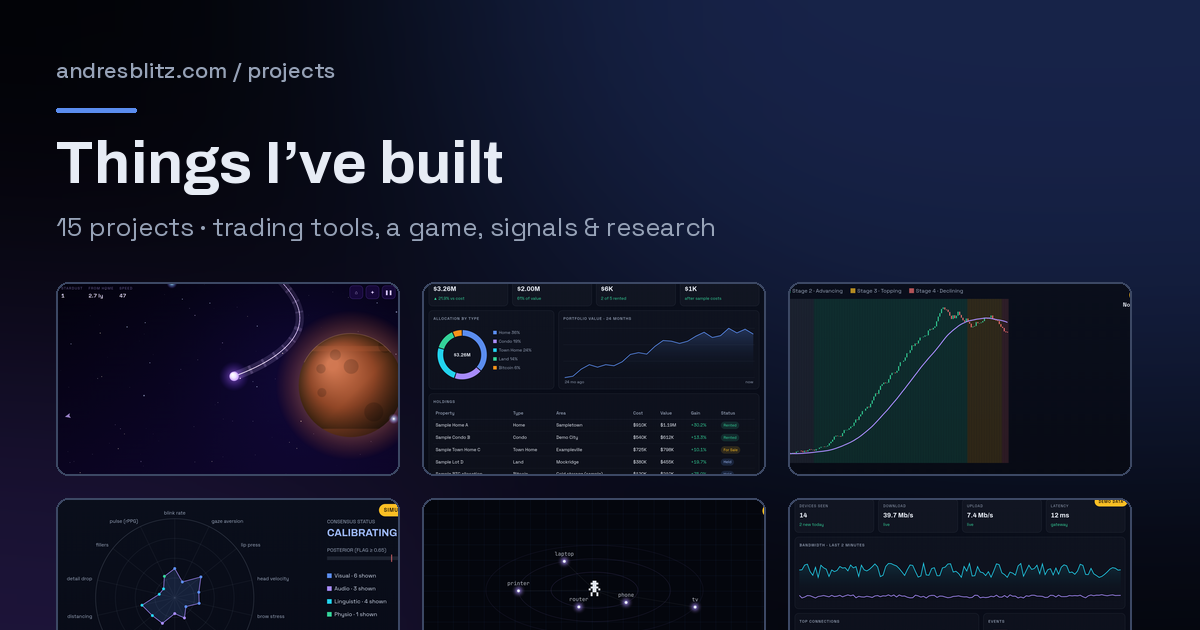
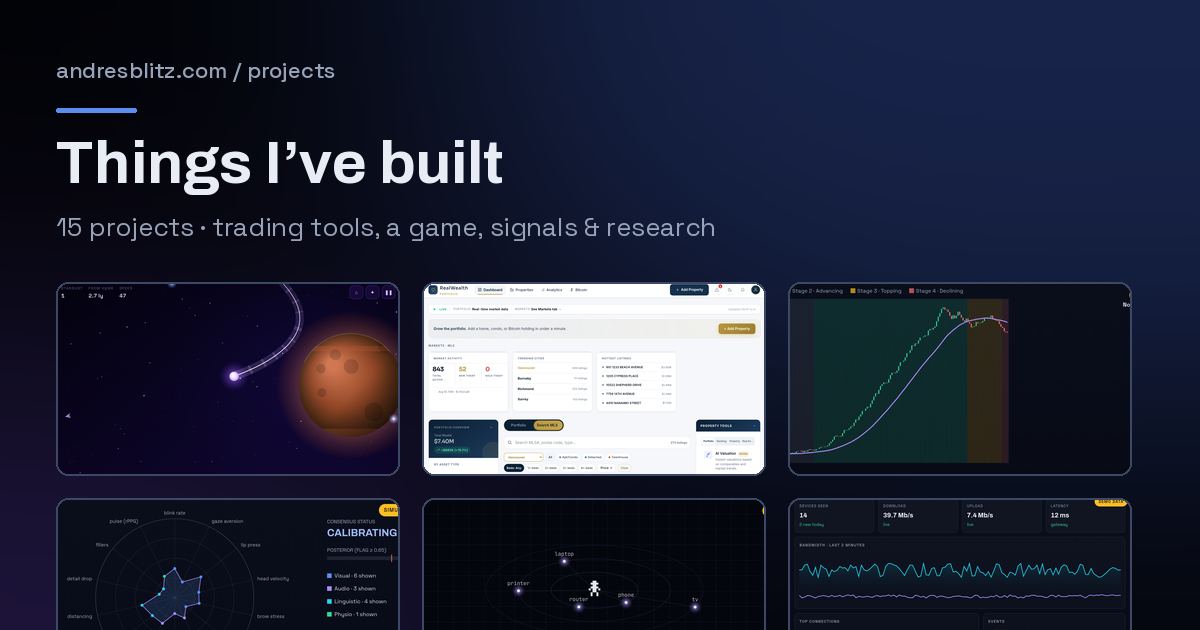
RealWealth: embed the live app instead of the mock demo
- Replace the mock dashboard with a lazy-loaded, sandboxed iframe of realwealth-portfolio.vercel.app
  plus an 'Open full app' link; chips and copy now say Live app, source stays private
- Card/share image is now a real screenshot of the live app
- JSON-LD: WebApplication with ViewAction; homepage ItemList and /projects/ card updated
- Correct datePublished on project pages to the actual publish time (20:40 PT)

Changed region(s): [[0.3392, 0.4524, 0.6475, 0.754]]

diff --git a/projects/realwealth-portfolio/index.html b/projects/realwealth-portfolio/index.html
@@ -3,8 +3,8 @@
 <head>
 <meta charset="UTF-8" />
 <meta name="viewport" content="width=device-width, initial-scale=1.0" />
-<title>RealWealth Portfolio — Real Estate Portfolio Dashboard (Next.js + Supabase) | Andrés Blitz</title>
-<meta name="description" content="RealWealth Portfolio is a private real estate portfolio manager by Andrés Blitz: properties, mortgages, rent, expenses, market data and a Bitcoin sleeve in one Next.js dashboard. Demo uses sample data." />
+<title>RealWealth Portfolio — Live Real Estate Portfolio Dashboard (Next.js + Supabase) | Andrés Blitz</title>
+<meta name="description" content="RealWealth Portfolio is the real estate portfolio manager Andrés Blitz uses for his own holdings: properties, mortgages, market data, MLS® listings and a Bitcoin sleeve in one Next.js dashboard. The live app is embedded on this page." />
 <meta name="author" content="Andrés Blitz" />
 <meta name="robots" content="index, follow, max-image-preview:large, max-snippet:-1" />
 <meta name="theme-color" content="#05070f" />
@@ -21,21 +21,21 @@
 <meta property="og:site_name" content="Andrés Blitz" />
 <meta property="og:locale" content="en_CA" />
 <meta property="og:url" content="https://andresblitz.com/projects/realwealth-portfolio/" />
-<meta property="og:title" content="RealWealth Portfolio — Real Estate Portfolio Dashboard (Next.js + Supabase) | Andrés Blitz" />
-<meta property="og:description" content="RealWealth Portfolio is a private real estate portfolio manager by Andrés Blitz: properties, mortgages, rent, expenses, market data and a Bitcoin sleeve in one Next.js dashboard. Demo uses sample data." />
+<meta property="og:title" content="RealWealth Portfolio — Live Real Estate Portfolio Dashboard (Next.js + Supabase) | Andrés Blitz" />
+<meta property="og:description" content="RealWealth Portfolio is the real estate portfolio manager Andrés Blitz uses for his own holdings: properties, mortgages, market data, MLS® listings and a Bitcoin sleeve in one Next.js dashboard. The live app is embedded on this page." />
 <meta property="og:image" content="https://andresblitz.com/assets/projects/realwealth-portfolio.png" />
 <meta property="og:image:secure_url" content="https://andresblitz.com/assets/projects/realwealth-portfolio.png" />
 <meta property="og:image:type" content="image/png" />
 <meta property="og:image:width" content="1200" />
 <meta property="og:image:height" content="630" />
-<meta property="og:image:alt" content="RealWealth Portfolio — Private real estate portfolio manager" />
+<meta property="og:image:alt" content="RealWealth Portfolio — Live real estate portfolio dashboard" />
 <meta name="twitter:card" content="summary_large_image" />
 <meta name="twitter:site" content="@andresblitz" />
 <meta name="twitter:creator" content="@andresblitz" />
-<meta name="twitter:title" content="RealWealth Portfolio — Real Estate Portfolio Dashboard (Next.js + Supabase) | Andrés Blitz" />
-<meta name="twitter:description" content="RealWealth Portfolio is a private real estate portfolio manager by Andrés Blitz: properties, mortgages, rent, expenses, market data and a Bitcoin sleeve in one Next.js dashboard. Demo uses sample data." />
+<meta name="twitter:title" content="RealWealth Portfolio — Live Real Estate Portfolio Dashboard (Next.js + Supabase) | Andrés Blitz" />
+<meta name="twitter:description" content="RealWealth Portfolio is the real estate portfolio manager Andrés Blitz uses for his own holdings: properties, mortgages, market data, MLS® listings and a Bitcoin sleeve in one Next.js dashboard. The live app is embedded on this page." />
 <meta name="twitter:image" content="https://andresblitz.com/assets/projects/realwealth-portfolio.png" />
-<meta name="twitter:image:alt" content="RealWealth Portfolio — Private real estate portfolio manager" />
+<meta name="twitter:image:alt" content="RealWealth Portfolio — Live real estate portfolio dashboard" />
 <script type="application/ld+json">
 {
   "@context": "https://schema.org",
@@ -44,8 +44,8 @@
       "@type": "WebPage",
       "@id": "https://andresblitz.com/projects/realwealth-portfolio/#webpage",
       "url": "https://andresblitz.com/projects/realwealth-portfolio/",
-      "name": "RealWealth Portfolio — Real Estate Portfolio Dashboard (Next.js + Supabase)",
-      "description": "RealWealth Portfolio is a private real estate portfolio manager by Andrés Blitz: properties, mortgages, rent, expenses, market data and a Bitcoin sleeve in one Next.js dashboard. Demo uses sample data.",
+      "name": "RealWealth Portfolio — Live Real Estate Portfolio Dashboard (Next.js + Supabase)",
+      "description": "RealWealth Portfolio is the real estate portfolio manager Andrés Blitz uses for his own holdings: properties, mortgages, market data, MLS® listings and a Bitcoin sleeve in one Next.js dashboard. The live app is embedded on this page.",
       "isPartOf": {
         "@id": "https://andresblitz.com/#website"
       },
@@ -66,14 +66,14 @@
         "@id": "https://andresblitz.com/projects/realwealth-portfolio/#breadcrumb"
       },
       "inLanguage": "en-CA",
-      "datePublished": "2026-09-26T21:30:00-07:00",
-      "dateModified": "2026-09-26T21:30:00-07:00"
+      "datePublished": "2026-09-26T20:40:00-07:00",
+      "dateModified": "2026-09-26T20:49:00-07:00"
     },
     {
-      "@type": "SoftwareSourceCode",
+      "@type": "WebApplication",
       "@id": "https://andresblitz.com/projects/realwealth-portfolio/#project",
       "name": "RealWealth Portfolio",
-      "description": "RealWealth Portfolio is a private real estate portfolio manager by Andrés Blitz: properties, mortgages, rent, expenses, market data and a Bitcoin sleeve in one Next.js dashboard. Demo uses sample data.",
+      "description": "RealWealth Portfolio is the real estate portfolio manager Andrés Blitz uses for his own holdings: properties, mortgages, market data, MLS® listings and a Bitcoin sleeve in one Next.js dashboard. The live app is embedded on this page.",
       "url": "https://andresblitz.com/projects/realwealth-portfolio/",
       "image": "https://andresblitz.com/assets/projects/realwealth-portfolio.png",
       "author": {
@@ -83,11 +83,18 @@
         "@id": "https://andresblitz.com/#person"
       },
       "dateCreated": "2026-03-20",
-      "dateModified": "2026-09-23",
+      "dateModified": "2026-09-26",
       "inLanguage": "en",
       "keywords": "Next.js 16 (App Router), React 19, TypeScript, Tailwind CSS 4, Supabase / Postgres, Leaflet",
-      "programmingLanguage": "TypeScript",
-      "runtimePlatform": "Next.js 16 (App Router)"
+      "applicationCategory": "FinanceApplication",
+      "operatingSystem": "Any (web browser)",
+      "browserRequirements": "Requires JavaScript",
+      "sameAs": "https://realwealth-portfolio.vercel.app/",
+      "potentialAction": {
+        "@type": "ViewAction",
+        "name": "Open the live app",
+        "target": "https://realwealth-portfolio.vercel.app/"
+      }
     },
     {
       "@type": "BreadcrumbList",
@@ -151,22 +158,25 @@
 <div class="container">
   <nav class="crumbs" aria-label="Breadcrumb"><ol><li><a href="/">Home</a></li><li><a href="/projects/">Projects</a></li><li aria-current="page">RealWealth Portfolio</li></ol></nav>
   <header class="p-head">
-    <p class="kicker">Real estate · Portfolio</p>
+    <p class="kicker">Real estate · Live app</p>
     <h1>RealWealth Portfolio</h1>
-    <p class="lede">A private portfolio manager for real estate: properties, mortgages, rent and expenses in one dashboard — with market data, MLS® listings and a Bitcoin sleeve alongside the bricks.</p>
-    <div class="tags"><span class="tag private"><span class="dot"></span>Private repo</span><span class="tag"><span class="dot" style="background:#3178c6"></span>TypeScript</span><span class="tag">Active · private</span><span class="tag"><span class="dot" style="background:var(--warn)"></span>Mock demo</span></div>
-    <div class="actions"><span class="note"><svg viewBox="0 0 24 24" fill="none" stroke="currentColor" stroke-width="2" stroke-linecap="round" stroke-linejoin="round" aria-hidden="true"><rect width="18" height="11" x="3" y="11" rx="2"/><path d="M7 11V7a5 5 0 0 1 10 0v4"/></svg> Source is private</span></div>
+    <p class="lede">My real estate portfolio manager: properties, mortgages, rent and expenses in one dashboard, with market data, MLS® listings and a Bitcoin sleeve alongside the bricks. What you see below is the live app, running on my real portfolio.</p>
+    <div class="tags"><span class="tag private"><span class="dot"></span>Private repo</span><span class="tag"><span class="dot" style="background:#3178c6"></span>TypeScript</span><span class="tag">Active</span><span class="tag"><span class="dot" style="background:var(--ok)"></span>Live app</span></div>
+    <div class="actions"><a class="primary" href="https://realwealth-portfolio.vercel.app/" target="_blank" rel="noopener"><svg viewBox="0 0 24 24" fill="none" stroke="currentColor" stroke-width="2" stroke-linecap="round" stroke-linejoin="round" aria-hidden="true"><path d="M7 7h10v10"/><path d="M7 17 17 7"/></svg> Open full app</a><span class="note"><svg viewBox="0 0 24 24" fill="none" stroke="currentColor" stroke-width="2" stroke-linecap="round" stroke-linejoin="round" aria-hidden="true"><rect width="18" height="11" x="3" y="11" rx="2"/><path d="M7 11V7a5 5 0 0 1 10 0v4"/></svg> Source is private</span></div>
   </header>
-  <figure class="demo-wrap">
-  <div class="demo" data-demo="realwealth" role="img" aria-label="RealWealth Portfolio — Demo data"><span class="demo-badge">Demo data</span><div class="demo-stage"><noscript><img src="/assets/projects/realwealth-portfolio-thumb.webp" alt="RealWealth Portfolio illustration" width="1280" height="720" style="width:100%;height:auto;display:block" /></noscript></div></div>
-  <figcaption class="demo-caption">Demo data: every property, number and chart above is invented for illustration. The real app and its data are private.</figcaption>
+  <figure class="demo-wrap live-wrap">
+  <div class="live-frame">
+    <div class="live-bar"><span class="live-dot" aria-hidden="true"></span><span>Live app</span><span class="live-host">realwealth-portfolio.vercel.app</span><a href="https://realwealth-portfolio.vercel.app/" target="_blank" rel="noopener">Open full app <svg viewBox="0 0 24 24" fill="none" stroke="currentColor" stroke-width="2" stroke-linecap="round" stroke-linejoin="round" aria-hidden="true"><path d="M7 7h10v10"/><path d="M7 17 17 7"/></svg></a></div>
+    <iframe src="https://realwealth-portfolio.vercel.app/" title="RealWealth Portfolio: live portfolio dashboard" loading="lazy" referrerpolicy="strict-origin-when-cross-origin" sandbox="allow-scripts allow-same-origin allow-popups allow-popups-to-escape-sandbox"></iframe>
+  </div>
+  <figcaption class="demo-caption">This is the live app, not a mock-up. It shows my real portfolio as it stands today. Scroll inside the frame to explore, or open the full app in a new tab.</figcaption>
 </figure>
   <div class="p-body">
     <div>
-      <section><h2>What it is</h2><p>RealWealth shows a real estate portfolio as total value, equity, cash flow and allocation — instead of a pile of spreadsheets. It is a full-stack Next.js app backed by Supabase (Postgres).</p><p>It treats Bitcoin as its own asset class next to homes, condos and land, and pulls in market context so each decision sits next to rates and listings.</p></section>
-      <section><h2>What I built</h2><ul class="built"><li>Dashboard with total value, equity, monthly rent, net cash flow and allocation by type (home, condo, town home, land, commercial and Bitcoin).</li><li>Property management: add, edit and view holdings, with mortgage tracking, expense logging and gain/loss per property.</li><li>Analytics: cap rates, cash-flow analysis, a deal scatter chart and a sortable portfolio table.</li><li>Market context: mortgage rates, macro indicators and a live BTC price in CAD.</li><li>Listings: an MLS® listing map (Leaflet) fed by a scheduled CREA DDF® sync, address autocomplete and nearby homes.</li><li>A 3D portfolio globe (cobe), light/dark themes and a built-in error log.</li><li>Runs without a database too: it falls back to mock data when Supabase isn’t configured.</li></ul></section>
+      <section><h2>What it is</h2><p>RealWealth shows my real estate portfolio as total value, equity, cash flow and allocation, instead of a pile of spreadsheets. It is a full-stack Next.js app backed by Supabase (Postgres) and deployed on Vercel.</p><p>It treats Bitcoin as its own asset class next to homes, condos and land, and pulls in market context so each decision sits next to rates and listings.</p><p>The frame above is the production app itself, embedded live, so the numbers are the real ones.</p></section>
+      <section><h2>What I built</h2><ul class="built"><li>Dashboard with total value, equity, monthly rent, net cash flow and allocation by type (home, condo, town home, land, commercial and Bitcoin).</li><li>Property management: add, edit and view holdings, with mortgage tracking, expense logging and gain/loss per property.</li><li>Analytics: cap rates, cash-flow analysis, a deal scatter chart and a sortable portfolio table.</li><li>Market context: mortgage rates, macro indicators and a live BTC price in CAD.</li><li>Listings: an MLS® listing map (Leaflet) fed by a scheduled CREA DDF® sync, address autocomplete and nearby homes.</li><li>A 3D portfolio globe (cobe), light/dark themes and a built-in error log.</li></ul></section>
       
-      <section><div class="callout"><strong>About the demo.</strong> The source is private, so this page describes the project at a high level. The visual above runs on invented sample data generated in your browser — nothing on this page comes from a real account, device, network or portfolio.</div></section>
+      <section><div class="callout"><strong>About the embed.</strong> The source code is private, so there is no repo link, but the app itself is public: the frame above loads the production app with my real portfolio data.</div></section>
     </div>
     <aside class="facts" aria-label="Project facts">
       <h2>Project facts</h2>
@@ -175,7 +185,7 @@
         <div><dt>Source</dt><dd>Source is private</dd></div>
         <div><dt>Started</dt><dd>March 2026</dd></div>
         <div><dt>Last updated</dt><dd>September 2026</dd></div>
-        <div><dt>Status</dt><dd>Active · private</dd></div>
+        <div><dt>Status</dt><dd>Active</dd></div>
       </dl>
     </aside>
   </div>
@@ -190,7 +200,6 @@
     <a href="/">Home</a> &middot; <a href="/projects/">Projects</a> &middot; <a href="https://github.com/blitzandres" target="_blank" rel="noopener">GitHub</a> &middot; <a href="https://x.com/andresblitz" target="_blank" rel="noopener">X</a> &middot; <a href="mailto:info@andresblitz.com">info@andresblitz.com</a>
   </div>
 </footer>
-<script src="/assets/js/project-demos.js" defer></script>
 <script>
 // blitz-analytics — visitor tracking + Intercom-style chat
 (function() {

diff --git a/assets/js/project-demos.js b/assets/js/project-demos.js
@@ -76,67 +76,6 @@
 
   var demos = {};
 
-  // ---------------- RealWealth Portfolio (sample portfolio) ----------------
-  demos.realwealth = function (host) {
-    var props = [
-      { n: 'Sample Home A', t: 'Home', city: 'Sampletown', buy: 910000, val: 1185000, rent: 3900, st: 'Rented' },
-      { n: 'Sample Condo B', t: 'Condo', city: 'Demo City', buy: 540000, val: 612000, rent: 2450, st: 'Rented' },
-      { n: 'Sample Town Home C', t: 'Town Home', city: 'Exampleville', buy: 725000, val: 798000, rent: 0, st: 'For Sale' },
-      { n: 'Sample Lot D', t: 'Land', city: 'Mockridge', buy: 380000, val: 455000, rent: 0, st: 'Held' },
-      { n: 'Sample BTC allocation', t: 'Bitcoin', city: 'Cold storage (sample)', buy: 120000, val: 210000, rent: 0, st: 'Held' }
-    ];
-    var debt = 1260000, expenses = 5200;
-    var total = props.reduce(function (a, p) { return a + p.val; }, 0);
-    var cost = props.reduce(function (a, p) { return a + p.buy; }, 0);
-    var rent = props.reduce(function (a, p) { return a + p.rent; }, 0);
-    var roi = ((total - cost) / cost * 100).toFixed(1);
-    var m = el('div', 'mock');
-    m.innerHTML =
-      '<div class="row kpis">' +
-      '<div class="kpi"><span>Total value</span><b>' + money(total) + '</b><i>▲ ' + roi + '% vs cost</i></div>' +
-      '<div class="kpi"><span>Equity</span><b>' + money(total - debt) + '</b><i>' + Math.round((total - debt) / total * 100) + '% of value</i></div>' +
-      '<div class="kpi"><span>Monthly rent</span><b>' + money(rent) + '</b><i>2 of 5 rented</i></div>' +
-      '<div class="kpi"><span>Net / month</span><b>' + money(rent - expenses) + '</b><i class="' + (rent - expenses < 0 ? 'neg' : '') + '">after sample costs</i></div>' +
-      '</div>' +
-      '<div class="row" style="grid-template-columns:minmax(0,1fr) minmax(0,1.6fr);margin-top:.75rem" data-rw-charts>' +
-      '<div class="panel"><h4>Allocation by type</h4><div data-rw-donut></div></div>' +
-      '<div class="panel"><h4>Portfolio value · 24 months</h4><div data-rw-line></div></div>' +
-      '</div>' +
-      '<div class="panel scroll-x" style="margin-top:.75rem"><h4>Holdings</h4><table><thead><tr><th>Property</th><th>Type</th><th>Area</th><th>Cost</th><th>Value</th><th>Gain</th><th>Status</th></tr></thead><tbody>' +
-      props.map(function (p) {
-        var g = ((p.val - p.buy) / p.buy * 100).toFixed(1);
-        var cls = p.st === 'Rented' ? '' : p.st === 'For Sale' ? 'w' : 'b';
-        return '<tr><td>' + p.n + '</td><td>' + p.t + '</td><td>' + p.city + '</td><td>' + money(p.buy) + '</td><td>' + money(p.val) + '</td><td style="color:#34d399">+' + g + '%</td><td><span class="pill ' + cls + '">' + p.st + '</span></td></tr>';
-      }).join('') + '</tbody></table></div>';
-    host.appendChild(m);
-    if (host.clientWidth < 640) m.querySelector('[data-rw-charts]').style.gridTemplateColumns = '1fr';
-    var types = ['Home', 'Condo', 'Town Home', 'Land', 'Bitcoin'], cols = ['#5b8def', '#a78bfa', '#22d3ee', '#34d399', '#f7931a'];
-    makeCanvas(m.querySelector('[data-rw-donut]'), 170, function (ctx, W, H) {
-      ctx.clearRect(0, 0, W, H);
-      var r = Math.min(62, H / 2 - 12), cx = Math.min(W / 2, r + 20);
-      donut(ctx, cx, H / 2, r, props.map(function (p) { return p.val; }), cols, 16);
-      ctx.fillStyle = '#e7ecf5'; ctx.font = '600 14px Archivo, sans-serif'; ctx.textAlign = 'center'; ctx.fillText(money(total), cx, H / 2 + 5);
-      ctx.textAlign = 'left'; ctx.font = '12px "Space Grotesk", sans-serif';
-      types.forEach(function (t, i) {
-        var y = 26 + i * 25, x = cx + r + 26; if (x > W - 60) return;
-        ctx.fillStyle = cols[i]; ctx.fillRect(x, y - 9, 10, 10);
-        ctx.fillStyle = '#97a3b8'; ctx.fillText(t + ' ' + Math.round(props[i].val / total * 100) + '%', x + 16, y);
-      });
-    });
-    var r = rng(42), s = [], v = 1;
-    for (var i = 0; i < 24; i++) { v *= 1 + (r() - 0.35) * 0.028; s.push(v); }
-    var k0 = total / s[23]; s = s.map(function (x) { return x * k0; });
-    makeCanvas(m.querySelector('[data-rw-line]'), 170, function (ctx, W, H) {
-      ctx.clearRect(0, 0, W, H);
-      ctx.strokeStyle = 'rgba(148,163,184,0.1)'; ctx.lineWidth = 1;
-      for (var k = 0; k < 4; k++) { ctx.beginPath(); ctx.moveTo(0, 10 + k * (H - 30) / 3); ctx.lineTo(W, 10 + k * (H - 30) / 3); ctx.stroke(); }
-      lineChart(ctx, 4, 10, W - 8, H - 30, s, '#5b8def', 'rgba(91,141,239,0.28)');
-      ctx.fillStyle = '#97a3b8'; ctx.font = '11px "Space Grotesk", sans-serif'; ctx.textAlign = 'left';
-      ctx.fillText('24 mo ago', 4, H - 4); ctx.textAlign = 'right'; ctx.fillText('now', W - 4, H - 4);
-    });
-  };
-
-  // ---------------- Blitz Engine / lie-detector (simulated cue activity) ----------------
   demos.cuepolygon = function (host) {
     var fam = [
       { n: 'Visual', c: '#5b8def', cues: ['blink rate', 'gaze aversion', 'lip press', 'head velocity', 'brow stress', 'asymmetry'] },

diff --git a/projects/index.html b/projects/index.html
@@ -66,8 +66,8 @@
         "@type": "ImageObject",
         "url": "https://andresblitz.com/assets/projects/projects.png"
       },
-      "datePublished": "2026-09-26T21:30:00-07:00",
-      "dateModified": "2026-09-26T21:30:00-07:00"
+      "datePublished": "2026-09-26T20:40:00-07:00",
+      "dateModified": "2026-09-26T20:49:00-07:00"
     },
     {
       "@type": "ItemList",
@@ -225,7 +225,7 @@
   <header class="p-head">
     <p class="kicker">Projects</p>
     <h1>Things I’ve built</h1>
-    <p class="lede">Trading tools, dashboards, a game, signal experiments and a few research rabbit holes. Each project has its own page with what it does, how it’s built and a visual. Private projects are described at a high level, and anything that touches real data is shown with clearly labelled mock data.</p>
+    <p class="lede">Trading tools, dashboards, a game, signal experiments and a few research rabbit holes. Each project has its own page with what it does, how it’s built and a visual. Private projects are described at a high level. Demos built on invented data are labelled as mock data; live apps are labelled live.</p>
   </header>
   <div class="p-grid">
 <a class="p-card" href="/projects/blitzys-world/">
@@ -237,11 +237,11 @@
   </div>
 </a>
 <a class="p-card" href="/projects/realwealth-portfolio/">
-  <div class="thumb"><img src="/assets/projects/realwealth-portfolio-thumb.webp" alt="RealWealth Portfolio — Private real estate portfolio manager" width="640" height="360" loading="lazy" decoding="async" /></div>
+  <div class="thumb"><img src="/assets/projects/realwealth-portfolio-thumb.webp" alt="RealWealth Portfolio — Live real estate portfolio dashboard" width="640" height="360" loading="lazy" decoding="async" /></div>
   <div class="body">
     <h2>RealWealth Portfolio</h2>
-    <p>Private real estate portfolio manager.</p>
-    <div class="meta"><span class="tag private"><span class="dot"></span>Private repo</span><span class="tag"><span class="dot" style="background:#3178c6"></span>TypeScript</span><span class="tag"><span class="dot" style="background:var(--warn)"></span>Mock demo</span></div>
+    <p>Live real estate portfolio dashboard.</p>
+    <div class="meta"><span class="tag private"><span class="dot"></span>Private repo</span><span class="tag"><span class="dot" style="background:#3178c6"></span>TypeScript</span><span class="tag"><span class="dot" style="background:var(--ok)"></span>Live app</span></div>
   </div>
 </a>
 <a class="p-card" href="/projects/lie-detector/">

diff --git a/assets/projects.css b/assets/projects.css
@@ -148,3 +148,26 @@ footer.site a:hover { color: var(--text); }
 .mock .pill.b { background: rgba(91,141,239,0.16); color: #9db8f5; }
 .mock .pill.r { background: rgba(248,113,113,0.14); color: var(--bad); }
 .mock .scroll-x { overflow-x: auto; }
+
+/* live app embed */
+.live-wrap { width: min(80rem, calc(100vw - 2rem)); position: relative; left: 50%; transform: translateX(-50%); }
+.live-frame {
+  border: 1px solid var(--border); border-radius: 1rem; overflow: hidden; background: var(--surface);
+  box-shadow: 0 20px 60px rgba(0,0,0,0.35);
+}
+.live-bar {
+  display: flex; align-items: center; gap: 0.6rem; padding: 0.55rem 0.9rem; font-size: 0.78rem; color: var(--muted);
+  border-bottom: 1px solid var(--border); background: rgba(11,16,29,0.9);
+}
+.live-bar > span:nth-child(2) { color: var(--text); font-weight: 600; letter-spacing: 0.06em; text-transform: uppercase; font-size: 0.7rem; }
+.live-dot { width: 8px; height: 8px; border-radius: 50%; background: var(--ok); box-shadow: 0 0 0 0 rgba(52,211,153,0.6); animation: livepulse 2s infinite; }
+@keyframes livepulse { 0% { box-shadow: 0 0 0 0 rgba(52,211,153,0.55); } 70% { box-shadow: 0 0 0 7px rgba(52,211,153,0); } 100% { box-shadow: 0 0 0 0 rgba(52,211,153,0); } }
+.live-host { overflow: hidden; text-overflow: ellipsis; white-space: nowrap; min-width: 0; }
+.live-bar a { margin-left: auto; display: inline-flex; align-items: center; gap: 0.3rem; color: var(--accent); text-decoration: none; font-weight: 500; white-space: nowrap; }
+.live-bar a:hover { color: var(--text); }
+.live-bar a svg { width: 0.9rem; height: 0.9rem; }
+.live-frame iframe { display: block; width: 100%; height: 80vh; min-height: 520px; border: 0; background: #f6f7fb; }
+@media (min-width: 1024px) { .live-frame iframe { height: 88vh; min-height: 680px; } }
+@media (max-width: 480px) { .live-host { display: none; } }
+@media (prefers-reduced-motion: reduce) { .live-dot { animation: none; } }
+.live-wrap .demo-caption { max-width: 64rem; margin-left: auto; margin-right: auto; padding: 0 0.5rem; }

diff --git a/index.html b/index.html
@@ -203,7 +203,7 @@
         "url": "https://andresblitz.com/assets/og-cover.png"
       },
       "dateCreated": "2022-06-10T15:09:44-07:00",
-      "dateModified": "2026-09-26T21:30:00-07:00",
+      "dateModified": "2026-09-26T20:49:00-07:00",
       "breadcrumb": {
         "@id": "https://andresblitz.com/#breadcrumb"
       },
@@ -267,15 +267,16 @@
           "@type": "ListItem",
           "position": 2,
           "item": {
-            "@type": "SoftwareSourceCode",
+            "@type": "WebApplication",
             "@id": "https://andresblitz.com/projects/realwealth-portfolio/#project",
             "name": "RealWealth Portfolio",
             "url": "https://andresblitz.com/projects/realwealth-portfolio/",
-            "description": "Private real estate portfolio manager.",
+            "description": "Live real estate portfolio dashboard.",
             "author": {
               "@id": "https://andresblitz.com/#person"
             },
-            "programmingLanguage": "TypeScript"
+            "applicationCategory": "FinanceApplication",
+            "operatingSystem": "Any (web browser)"
           }
         },
         {
@@ -952,8 +953,8 @@ footer {
           <svg class="ext" viewBox="0 0 24 24" fill="none" stroke="currentColor" stroke-width="2" stroke-linecap="round" stroke-linejoin="round" aria-hidden="true"><path d="M5 12h14"/><path d="m12 5 7 7-7 7"/></svg>
         </div>
         <h3>RealWealth Portfolio</h3>
-        <p>Private real estate portfolio manager.</p>
-        <div class="meta"><span class="lang-dot" style="background:#3178c6"></span> TypeScript · Private</div>
+        <p>Live real estate portfolio dashboard.</p>
+        <div class="meta"><span class="lang-dot" style="background:#3178c6"></span> TypeScript · Live app</div>
       </a>
       <a class="card reveal" href="/projects/lie-detector/">
         <div class="top">

diff --git a/projects/weinstein-stage-matrix/index.html b/projects/weinstein-stage-matrix/index.html
@@ -66,8 +66,8 @@
         "@id": "https://andresblitz.com/projects/weinstein-stage-matrix/#breadcrumb"
       },
       "inLanguage": "en-CA",
-      "datePublished": "2026-09-26T21:30:00-07:00",
-      "dateModified": "2026-09-26T21:30:00-07:00"
+      "datePublished": "2026-09-26T20:40:00-07:00",
+      "dateModified": "2026-09-26T20:40:00-07:00"
     },
     {
       "@type": "SoftwareSourceCode",

diff --git a/projects/compute-share-pilot/index.html b/projects/compute-share-pilot/index.html
@@ -66,8 +66,8 @@
         "@id": "https://andresblitz.com/projects/compute-share-pilot/#breadcrumb"
       },
       "inLanguage": "en-CA",
-      "datePublished": "2026-09-26T21:30:00-07:00",
-      "dateModified": "2026-09-26T21:30:00-07:00"
+      "datePublished": "2026-09-26T20:40:00-07:00",
+      "dateModified": "2026-09-26T20:40:00-07:00"
     },
     {
       "@type": "SoftwareSourceCode",

diff --git a/projects/elite-island-movers/index.html b/projects/elite-island-movers/index.html
@@ -66,8 +66,8 @@
         "@id": "https://andresblitz.com/projects/elite-island-movers/#breadcrumb"
       },
       "inLanguage": "en-CA",
-      "datePublished": "2026-09-26T21:30:00-07:00",
-      "dateModified": "2026-09-26T21:30:00-07:00"
+      "datePublished": "2026-09-26T20:40:00-07:00",
+      "dateModified": "2026-09-26T20:40:00-07:00"
     },
     {
       "@type": "SoftwareSourceCode",

diff --git a/projects/blitz-analytics/index.html b/projects/blitz-analytics/index.html
@@ -66,8 +66,8 @@
         "@id": "https://andresblitz.com/projects/blitz-analytics/#breadcrumb"
       },
       "inLanguage": "en-CA",
-      "datePublished": "2026-09-26T21:30:00-07:00",
-      "dateModified": "2026-09-26T21:30:00-07:00"
+      "datePublished": "2026-09-26T20:40:00-07:00",
+      "dateModified": "2026-09-26T20:40:00-07:00"
     },
     {
       "@type": "SoftwareSourceCode",

diff --git a/projects/home-history/index.html b/projects/home-history/index.html
@@ -66,8 +66,8 @@
         "@id": "https://andresblitz.com/projects/home-history/#breadcrumb"
       },
       "inLanguage": "en-CA",
-      "datePublished": "2026-09-26T21:30:00-07:00",
-      "dateModified": "2026-09-26T21:30:00-07:00"
+      "datePublished": "2026-09-26T20:40:00-07:00",
+      "dateModified": "2026-09-26T20:40:00-07:00"
     },
     {
       "@type": "SoftwareSourceCode",

diff --git a/projects/lie-detector/index.html b/projects/lie-detector/index.html
@@ -66,8 +66,8 @@
         "@id": "https://andresblitz.com/projects/lie-detector/#breadcrumb"
       },
       "inLanguage": "en-CA",
-      "datePublished": "2026-09-26T21:30:00-07:00",
-      "dateModified": "2026-09-26T21:30:00-07:00"
+      "datePublished": "2026-09-26T20:40:00-07:00",
+      "dateModified": "2026-09-26T20:40:00-07:00"
     },
     {
       "@type": "SoftwareSourceCode",

diff --git a/projects/iptv-player/index.html b/projects/iptv-player/index.html
@@ -66,8 +66,8 @@
         "@id": "https://andresblitz.com/projects/iptv-player/#breadcrumb"
       },
       "inLanguage": "en-CA",
-      "datePublished": "2026-09-26T21:30:00-07:00",
-      "dateModified": "2026-09-26T21:30:00-07:00"
+      "datePublished": "2026-09-26T20:40:00-07:00",
+      "dateModified": "2026-09-26T20:40:00-07:00"
     },
     {
       "@type": "SoftwareSourceCode",
